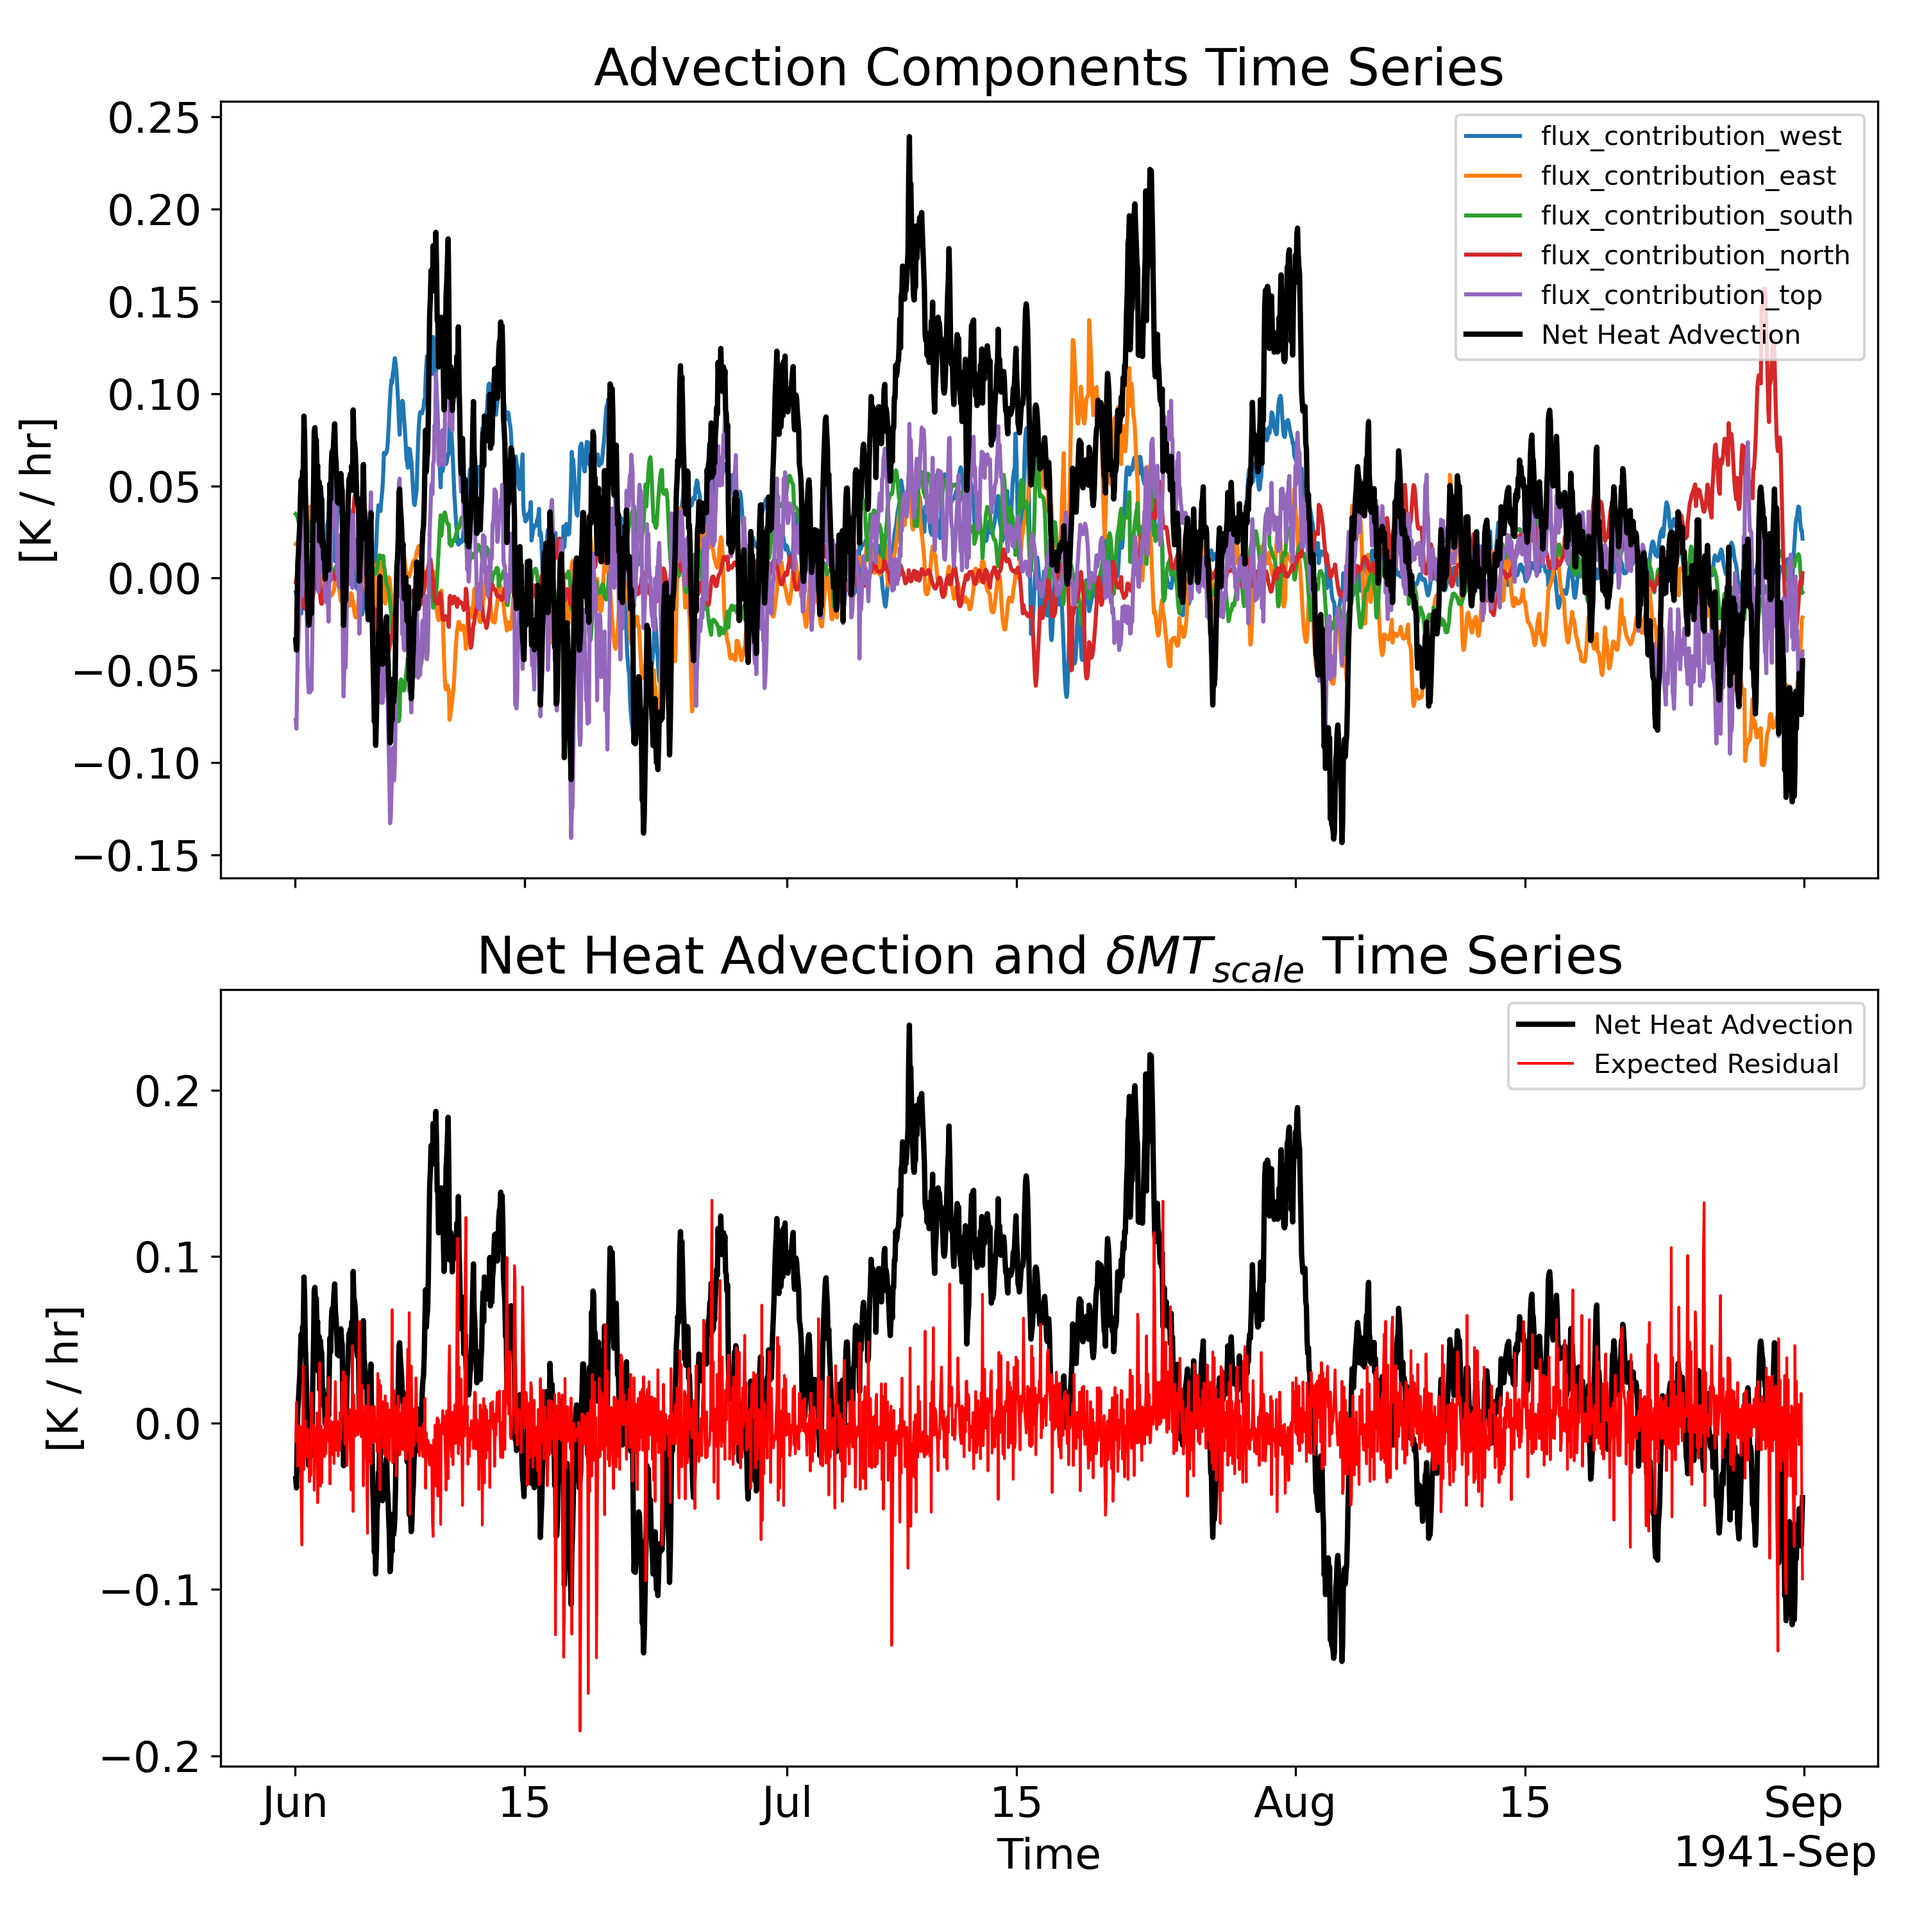
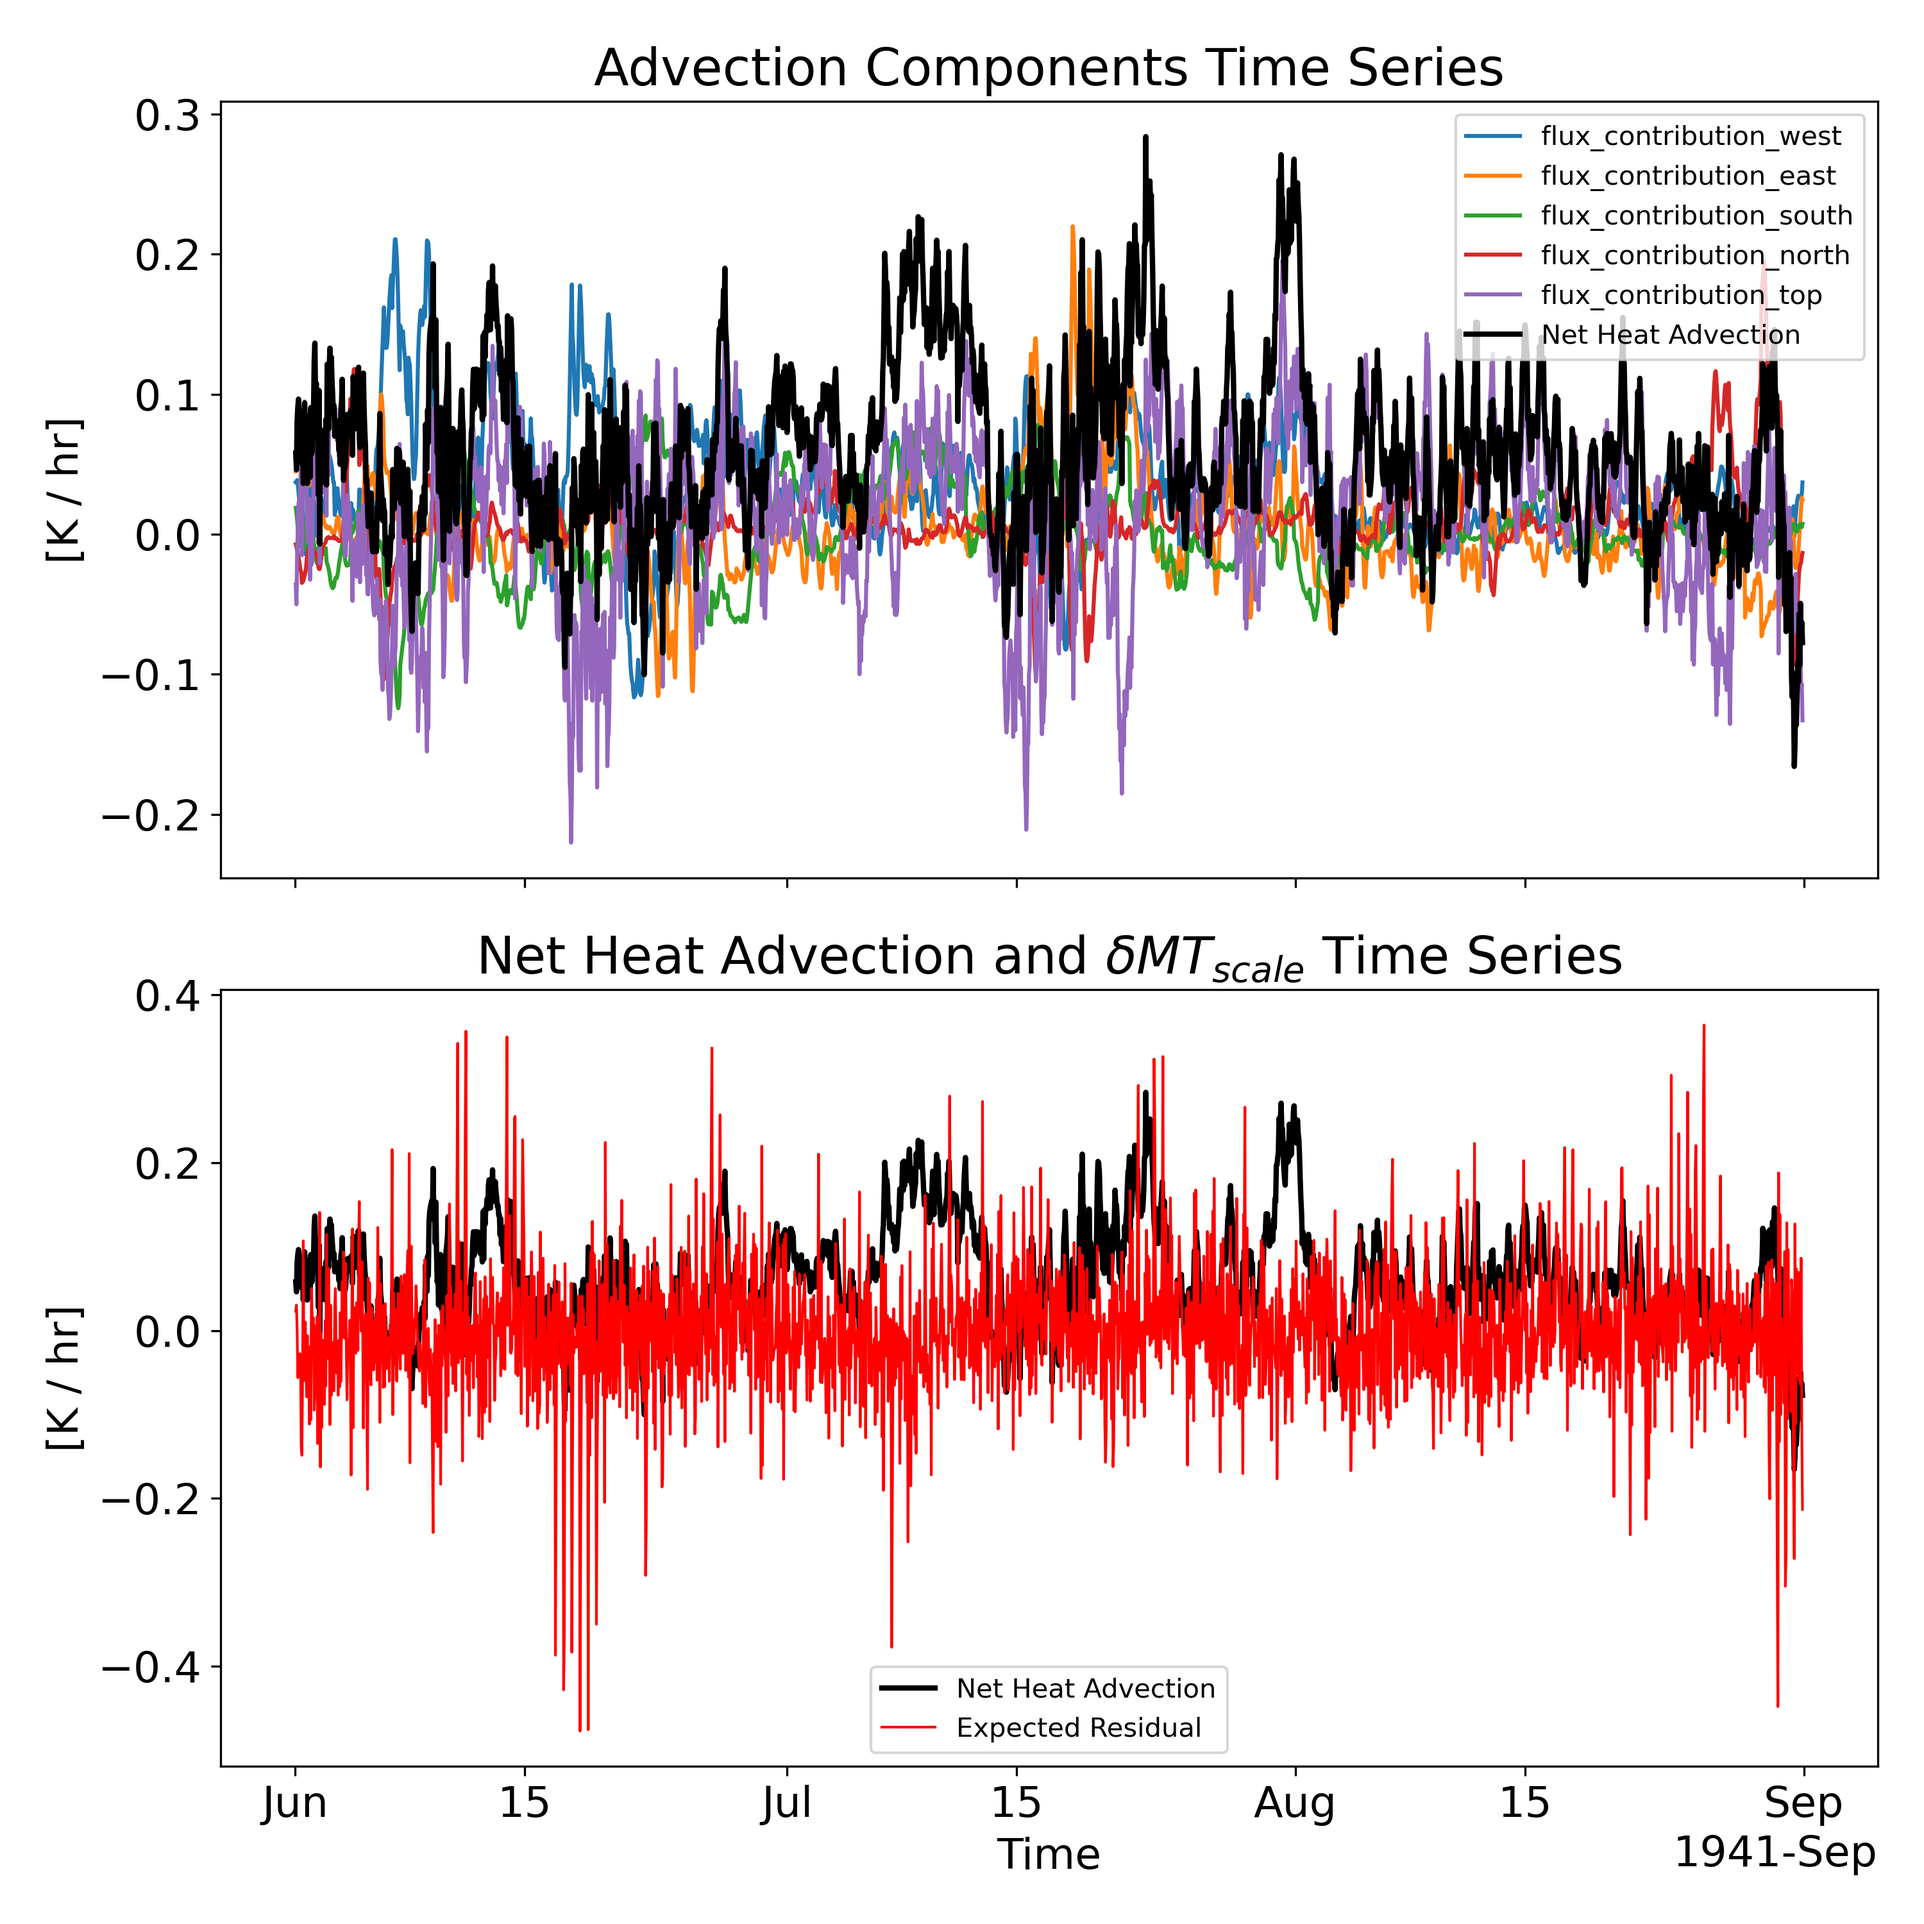
in the formulatioormulation of using T' for the advection calculation, we must use d<T>/dt as the storage term. changed that

diff --git a/src/budget.py b/src/budget.py
@@ -56,7 +56,7 @@ def calculate_budget(ds_domain: xr.Dataset,
 
     
 
-    dT_dt = terms.compute_storage(ds_domain['T'],
+    d_dt_T = terms.compute_storage(ds_domain['T'],
                                   ds_cell_volumes,
                                   ds_weights_volumes,
                                   DomainSpecs)
@@ -64,10 +64,16 @@ def calculate_budget(ds_domain: xr.Dataset,
     domain_volume = terms.compute_domain_volume(ds_domain, ds_cell_volumes, ds_weights_volumes, DomainSpecs)
     dV_dt         = terms.compute_time_derivative(domain_volume)
 
+    
+
     #extra terms:
     #average T over the domain for each time step
     T_domain_avg = terms.compute_T_domain_average(ds_domain['T'], domain_volume, ds_cell_volumes, ds_weights_volumes, DomainSpecs)
-    T_domain_avg = T_domain_avg.sel(time=dT_dt['time'])
+    dT_dt = (terms.compute_time_derivative(T_domain_avg)) * domain_volume
+    T_domain_avg = T_domain_avg.sel(time=d_dt_T['time'])
+
+    dT_dt_2 = d_dt_T - T_domain_avg * dV_dt
+
 
     #logic to distinguish between normal calculation and test with constant T field 
     # (to see if advection error matches estimate from mass continuity) 
@@ -93,12 +99,12 @@ def calculate_budget(ds_domain: xr.Dataset,
 
     advection_terms = terms.compute_advective_term(ds_domain_adv, ds_halo_adv, ds_cell_areas, ds_weights_areas, DomainSpecs, integral_diagnostics_flag)
     #time crop advection
-    advection_terms = advection_terms.sel(time=dT_dt['time'])
+    advection_terms = advection_terms.sel(time=d_dt_T['time'])
 
     #needed to estimate heat advection uncertainty from mass continuity
     if not test_constant_T:
         T_scale:float  = np.sqrt(
-            np.mean( (ds_domain['T'].sel(time=dT_dt['time']).values-T_domain_avg.values[:,None,None,None])**2. )
+            np.mean( (ds_domain['T'].sel(time=d_dt_T['time']).values-T_domain_avg.values[:,None,None,None])**2. )
         )
     else:
         T_scale:float = np.nanmean(T_domain_avg.values) #type:ignore
@@ -114,10 +120,11 @@ def calculate_budget(ds_domain: xr.Dataset,
         plot_diagnostics.fig1_mass_continuity(dV_dt, advection_terms, plot_diag_path)
         plot_diagnostics.fig2_mass_advection_residual_timeseries(advection_terms, dV_dt, domain_volume, plot_diag_path)
         plot_diagnostics.fig3_advection_components_timeseries(advection_terms, dV_dt, advection_error, domain_volume, plot_diag_path)
-    
+        plot_diagnostics.fig4_temperature_derivative_timeseries(d_dt_T, dT_dt, dT_dt_2, domain_volume, plot_diag_path)
+
     adiabatic_term = terms.compute_adiabatic_term(ds_domain, ds_cell_volumes, ds_weights_volumes, DomainSpecs)
     #time crop adiabatic
-    adiabatic_term = adiabatic_term.sel(time=dT_dt['time'])
+    adiabatic_term = adiabatic_term.sel(time=d_dt_T['time'])
 
     # compute the residual term (diabatic term) from the scalar net advection term
     diabatic_term = terms.compute_diabatic_term(
@@ -126,9 +133,10 @@ def calculate_budget(ds_domain: xr.Dataset,
         adiabatic_term,
     )
 
-    domain_volume = domain_volume.sel(time=dT_dt['time']) 
+    domain_volume = domain_volume.sel(time=d_dt_T['time']) 
     #combine all terms into a single output dataset
     out = xr.Dataset({
+        'd_dt_T': d_dt_T,
         'dT_dt': dT_dt,
         'dV_dt': dV_dt,
         'advection_term': advection_terms['net_heat_advection'], # use actual variable name in advection_terms dataset

diff --git a/src/plot_diagnostics.py b/src/plot_diagnostics.py
@@ -264,25 +264,40 @@ def fig3_advection_components_timeseries(advection_terms: xr.Dataset, dV_dt: xr.
     plt.close()
 
 
-    # # epsilon_heat_advection = abs(net) / sum (abs ( advection_per_surface ))
-    # eps_heat = np.abs(advection_terms['net_heat_advection']) / np.sum(np.abs([advection_terms[heat] for heat in heat_vars]))
+
+
+def fig4_temperature_derivative_timeseries(d_dt_T: xr.DataArray, dT_dt_1:xr.DataArray, dT_dt_2:xr.DataArray, domain_volume: xr.DataArray, plot_dir: str):
+
+    norm_factor = 1 / domain_volume
+    time_rate_conversion = 3600 # convert from per second to per hour
+
+    # delta_mass = dV_dt + advection_terms['net_mass_advection']
+
+    fig, ax = plt.subplots(figsize=(10, 10), nrows=2, tight_layout=True, sharex=True)
+
+    ax[0].plot(d_dt_T['time'], d_dt_T * norm_factor * time_rate_conversion, label=r'd/dt $\int TdV$', linewidth=2, color='k')
+
+    ax[0].set_ylabel("[K / hr]")
+    ax[0].set_title("Storage term: d/dt of domain integrated T")
+
+    ax[1].plot(dT_dt_2['time'], dT_dt_2 * norm_factor * time_rate_conversion, label=r'd/dt$\int TdV$-$\langle T \rangle $dV/dt', linewidth=2, color='b')
+    ax[1].plot(dT_dt_1['time'], dT_dt_1 * norm_factor * time_rate_conversion, label=r'd$\langle T \rangle $/dt', linewidth=2, color='k')
     
-    # fig, ax = plt.subplots(figsize=(10, 6), tight_layout=True)
-    # ax.plot(advection_terms['time'], eps_heat)
+    ax[1].set_title(r"Domain Average Temperature Tendency Time Series")
+    ax[1].set_ylabel('[K / hr]')
 
-    # locator = mdates.AutoDateLocator()
-    # formatter = mdates.ConciseDateFormatter(locator)
+    locator = mdates.AutoDateLocator()
+    formatter = mdates.ConciseDateFormatter(locator)
 
-    # ax.xaxis.set_major_locator(locator)
-    # ax.xaxis.set_major_formatter(formatter)
+    ax[1].xaxis.set_major_locator(locator)
+    ax[1].xaxis.set_major_formatter(formatter)
 
-    # ax.set_xlabel("Time")
-    # ax.set_ylabel("relative error")
-    # ax.set_title("Epsilon Heat Advection")
-    # plt.savefig(plot_dir + '/fig3.1_epsilon_heat_advection_timeseries.png', dpi=300)
-    # plt.close()
+    ax[0].legend(fontsize=10)
+    ax[1].legend(fontsize=10)
+    ax[1].set_xlabel("Time")
+    plt.savefig(plot_dir + '/fig4_temperature_derivative_timeseries.png', dpi=300)
+    plt.close()
 
-    
 
 
 

diff --git a/src/config.py b/src/config.py
@@ -33,6 +33,6 @@ DEFAULT_ALLOW_BOTTOM_OVERFLOW = False # allow bottom layer weights to exceed 1 i
 # pressure levels for geopotential height domain boundaries (in Pa)
 # zg_bottom_pressure only used if zg_bottom == "pressure_level"; else surface pressure determines bottom boundary
 DEFAULT_ZG_BOT_PA: float = 600 * 100 # lower boundary pressure for geopotential height budget in Pa
-DEFAULT_ZG_TOP_PA: float = 700 * 100 # upper boundary pressure for geopotential height budget in Pa
+DEFAULT_ZG_TOP_PA: float = 850 * 100 # upper boundary pressure for geopotential height budget in Pa
 
 DEFAULT_PLOTS_OUTPUT:str = "/home/mhpereir/eulerian_heat_budget/results/plots"

diff --git a/src/plot_results.py b/src/plot_results.py
@@ -244,7 +244,7 @@ def plot_budget_terms_day_bin(ds_budget: xr.Dataset, plot_dir: str) -> None:
     time_conversion_factor = 3600
 
     #storage term
-    ddt_TV = ds_budget["dT_dt"] * norm_factor * time_conversion_factor  # convert to K/s by dividing by volume and multiplying by T scale (using domain average T as scale)
+    ddt_TV = ds_budget["d_dt_T"] * norm_factor * time_conversion_factor  # convert to K/s by dividing by volume and multiplying by T scale (using domain average T as scale)
 
     #change in internal energy from volume change
 
